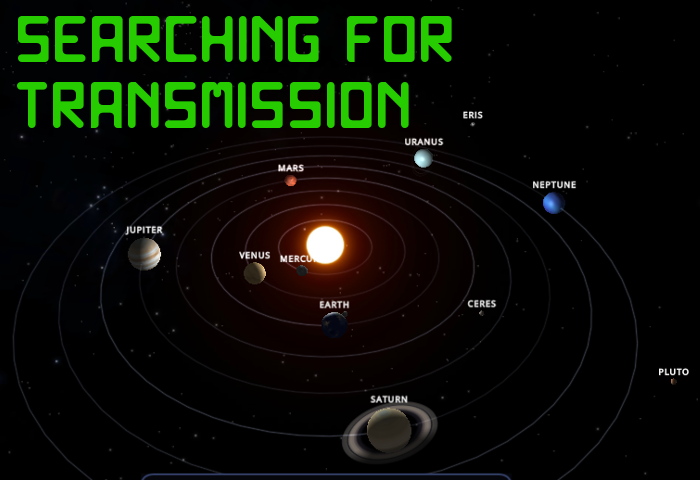
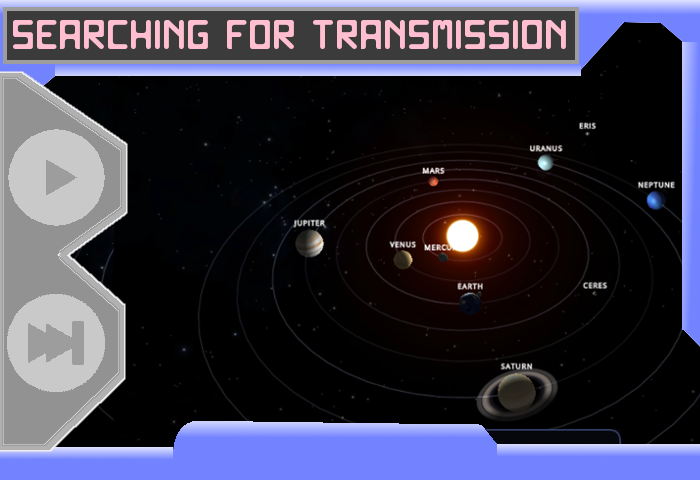
updated upload program

diff --git a/upload_videos.py b/upload_videos.py
@@ -1,11 +1,57 @@
 ### upload_videos.py -- Andrew R Gross -- 2020-12-19
 
-### Header
-import os
-import stat
+### Libraries
+import pygame
 import time
+import cv2
+import RPi.GPIO as GPIO
+import glob
+#import numpy as np
+#from ffpyplayer.player import MediaPlayer
+#import vlc
+import io,sys,os,subprocess
+global process
+
+### Declare variables and assets
+## Images
+searching = pygame.image.load('/home/pi/Rocket-dashboard/Images/searching-for-transmission.png')
+play_latest = pygame.image.load('/home/pi/Rocket-dashboard/Images/new-message.png')
+proceed = pygame.image.load('/home/pi/Rocket-dashboard/Images/continue.png')
+
+
+
+def get_video_duration(path):
+        vidcapture = cv2.VideoCapture(path)
+        fps = vidcapture.get(cv2.CAP_PROP_FPS)
+        totalNoFrames = vidcapture.get(cv2.CAP_PROP_FRAME_COUNT);
+        durationInSeconds = float(totalNoFrames) / float(fps)
+        return(durationInSeconds)
+
+## Videos
+full_video_list = glob.glob('/home/pi/Rocket-dashboard/Videos/*')
+full_video_list.sort(key=os.path.getmtime, reverse = True)
+video_list = full_video_list[0:4]
+print(video_list)
+
+## Pins
+button1 = 2
+button2 = 3
+
+GPIO.setmode(GPIO.BCM)
+#GPIO.setwarnings(False)
+GPIO.setup(button1,GPIO.IN, pull_up_down=GPIO.PUD_UP)
+GPIO.setup(button2,GPIO.IN, pull_up_down=GPIO.PUD_UP)
+
+screenstate = 0
+
+
+print('Setup complete. Running test')
+
+
 
 ### Main program
+
+
 
 print('Checking for new videos')
 

diff --git a/check-new-videos.py b/check-new-videos.py
@@ -15,7 +15,8 @@ global process
 ### Declare variables and assets
 ## Images
 searching = pygame.image.load('/home/pi/Rocket-dashboard/Images/searching-for-transmission.png')
-play_latest = pygame.image.load('/home/pi/Rocket-dashboard/Images/play-latest.png')
+play_latest = pygame.image.load('/home/pi/Rocket-dashboard/Images/new-message.png')
+proceed = pygame.image.load('/home/pi/Rocket-dashboard/Images/continue.png')
 
 """
 ## Sounds
@@ -61,20 +62,11 @@ screenstate = 0
 print('Setup complete. Running test')
 
 ### Main Program Body
-
-#screen.blit(menucontrol, (0,0))
 pygame.init()
 screen = pygame.display.set_mode((0,0), pygame.FULLSCREEN)
 screen.blit(searching, (0,0))
-#screen.fill((0, 102, 51))
 
 font = pygame.font.SysFont(None, 50)
-#font2 = pygame.font.SysFont(None, 50)
-#text1 = font.render('CHECKING FOR NEW MESSAGES', True, (152,255,54))
-#screen.blit(text1, (50, 140))
-#pygame.display.update()
-
-#time.sleep(5)
 
 screen.blit(play_latest, (0,0))
 new_video = (1,2)
@@ -84,12 +76,10 @@ if len(new_video) >0:
 	screen.blit(text1, (50, 30))
 	pygame.display.update()
 	#time.sleep(0.5)
-
 while True:
 	#text1 = font.render('Play latest message or skip', True, (152,255,54))
 	#screen.blit(text1, (50, 260))
 	#pygame.display.update()
-
 	if GPIO.input(button1) == False:	# Play message
 		print('Initializing delayed start')
 
